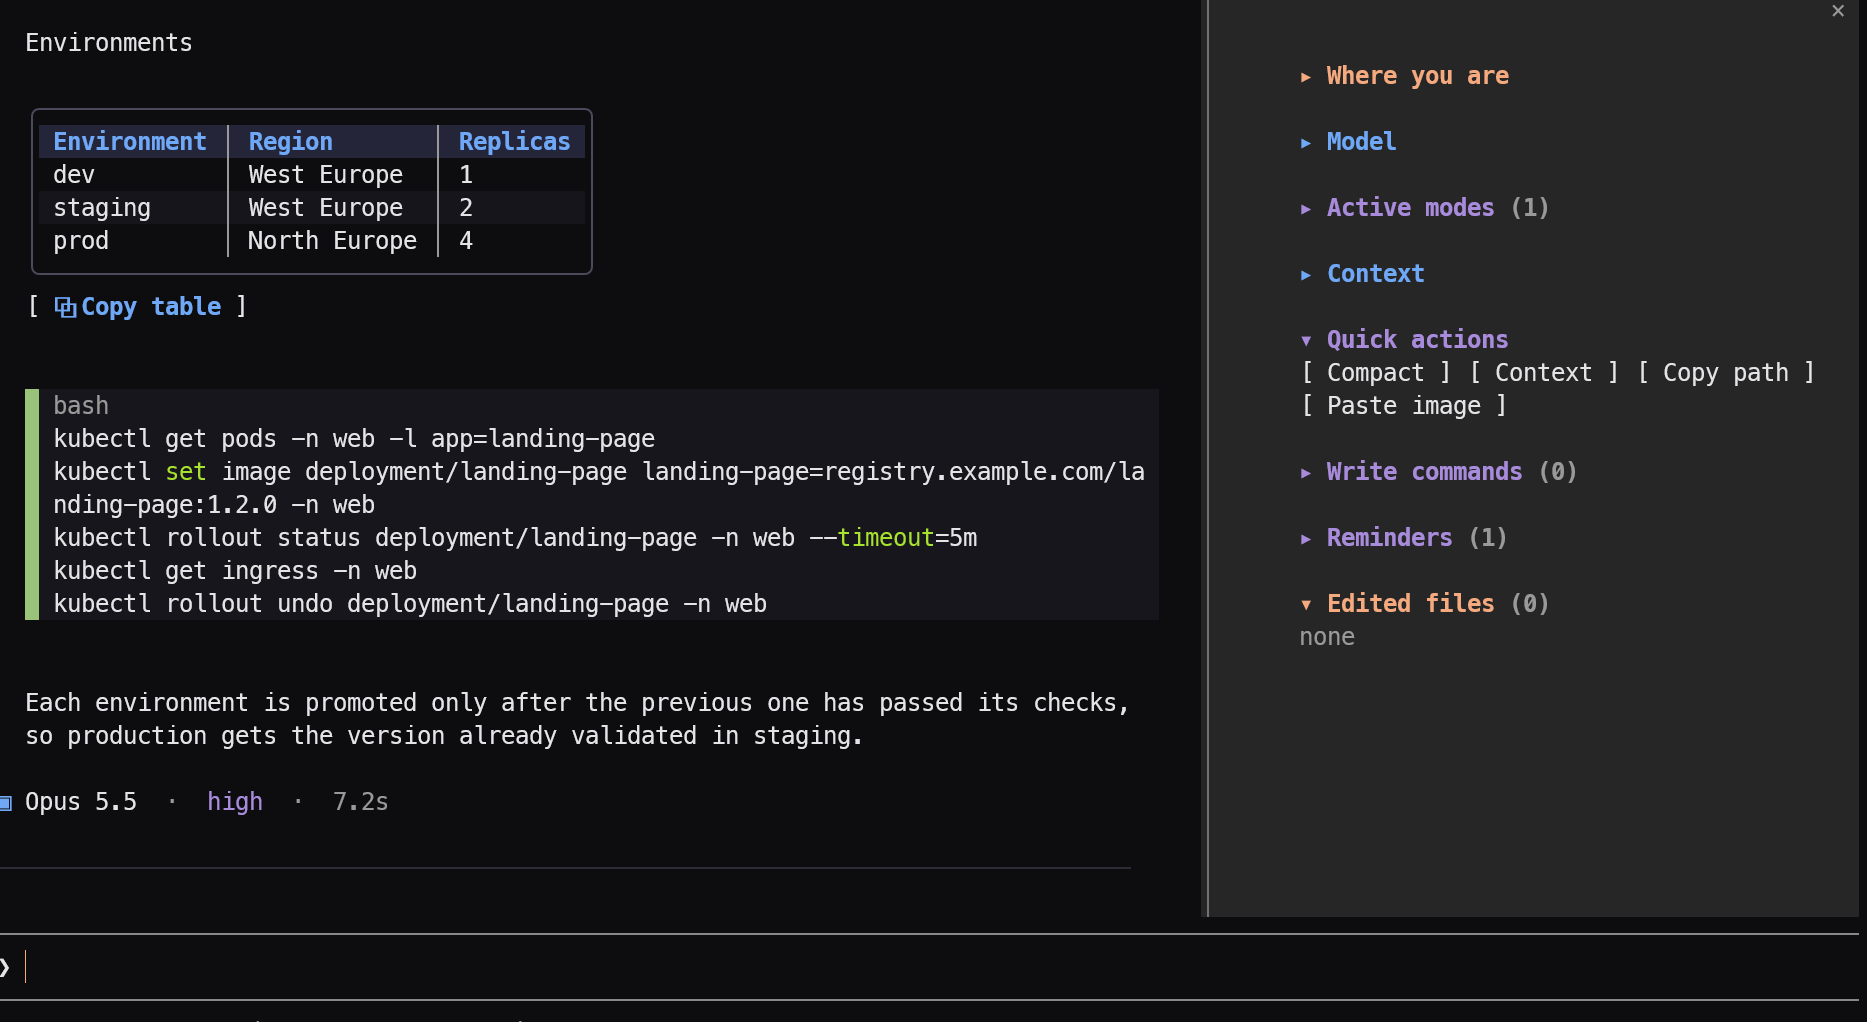
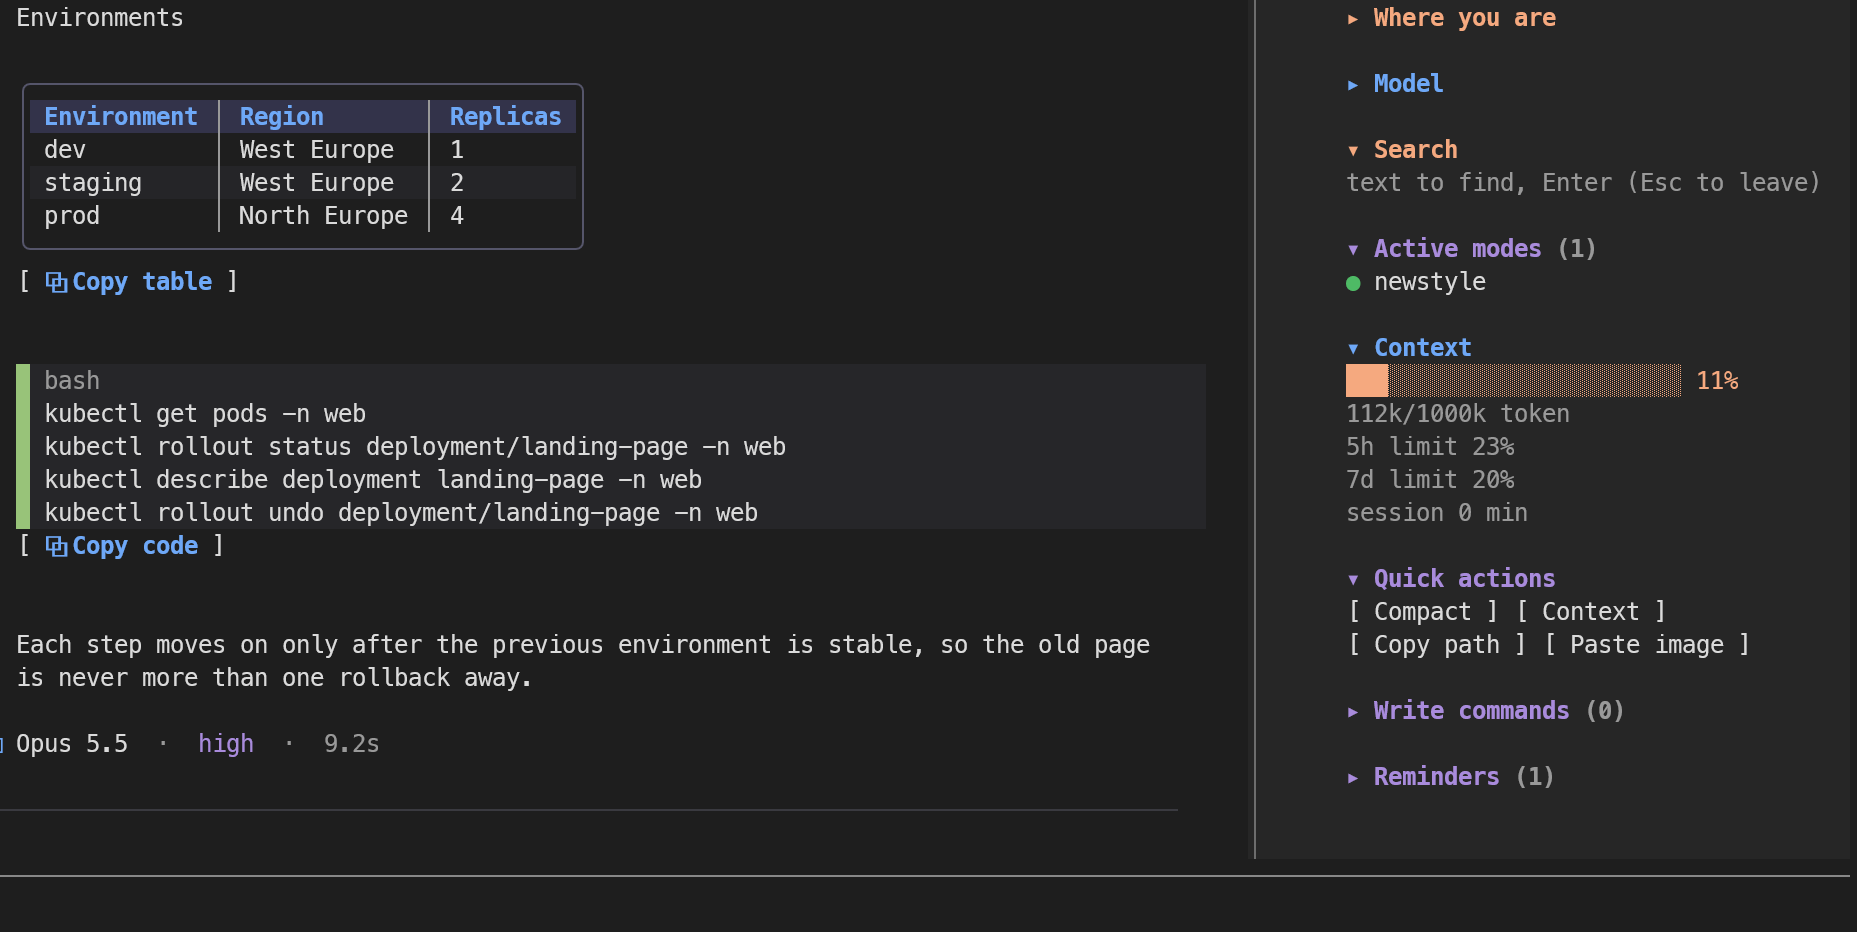
docs: updated screenshots (panel, chat, where/model, search)

diff --git a/README.md b/README.md
@@ -8,6 +8,8 @@ A Claude Code mod for the terminal: an operational side panel that shows where y
 
 ### Side panel (`/cockpit`, alias `/sidebar`)
 
+<img src="docs/panel-where-model.png" alt="The panel: where you are (folder, Azure, kubectl, git) and the model and effort buttons" width="320" align="right">
+
 | Section | Shows |
 |---|---|
 | Where you are | folder, Azure subscription and tenant, kubectl context and namespace, git branch with uncommitted changes ● and commits ↑ to push / ↓ to pull (red when it looks like production) |
@@ -25,6 +27,8 @@ A Claude Code mod for the terminal: an operational side panel that shows where y
 - Click a section title to fold or unfold it (remembered across sessions).
 - At the bottom: the Claude Code version, pinned to the panel's bottom edge.
 - In a wide terminal the panel sits on the side; in a narrow one it becomes a two-line bar above the prompt.
+
+![Searching "kube": hits in the panel, newest first, and the match highlighted in the chat](docs/search.png)
 
 ### Chat
 
